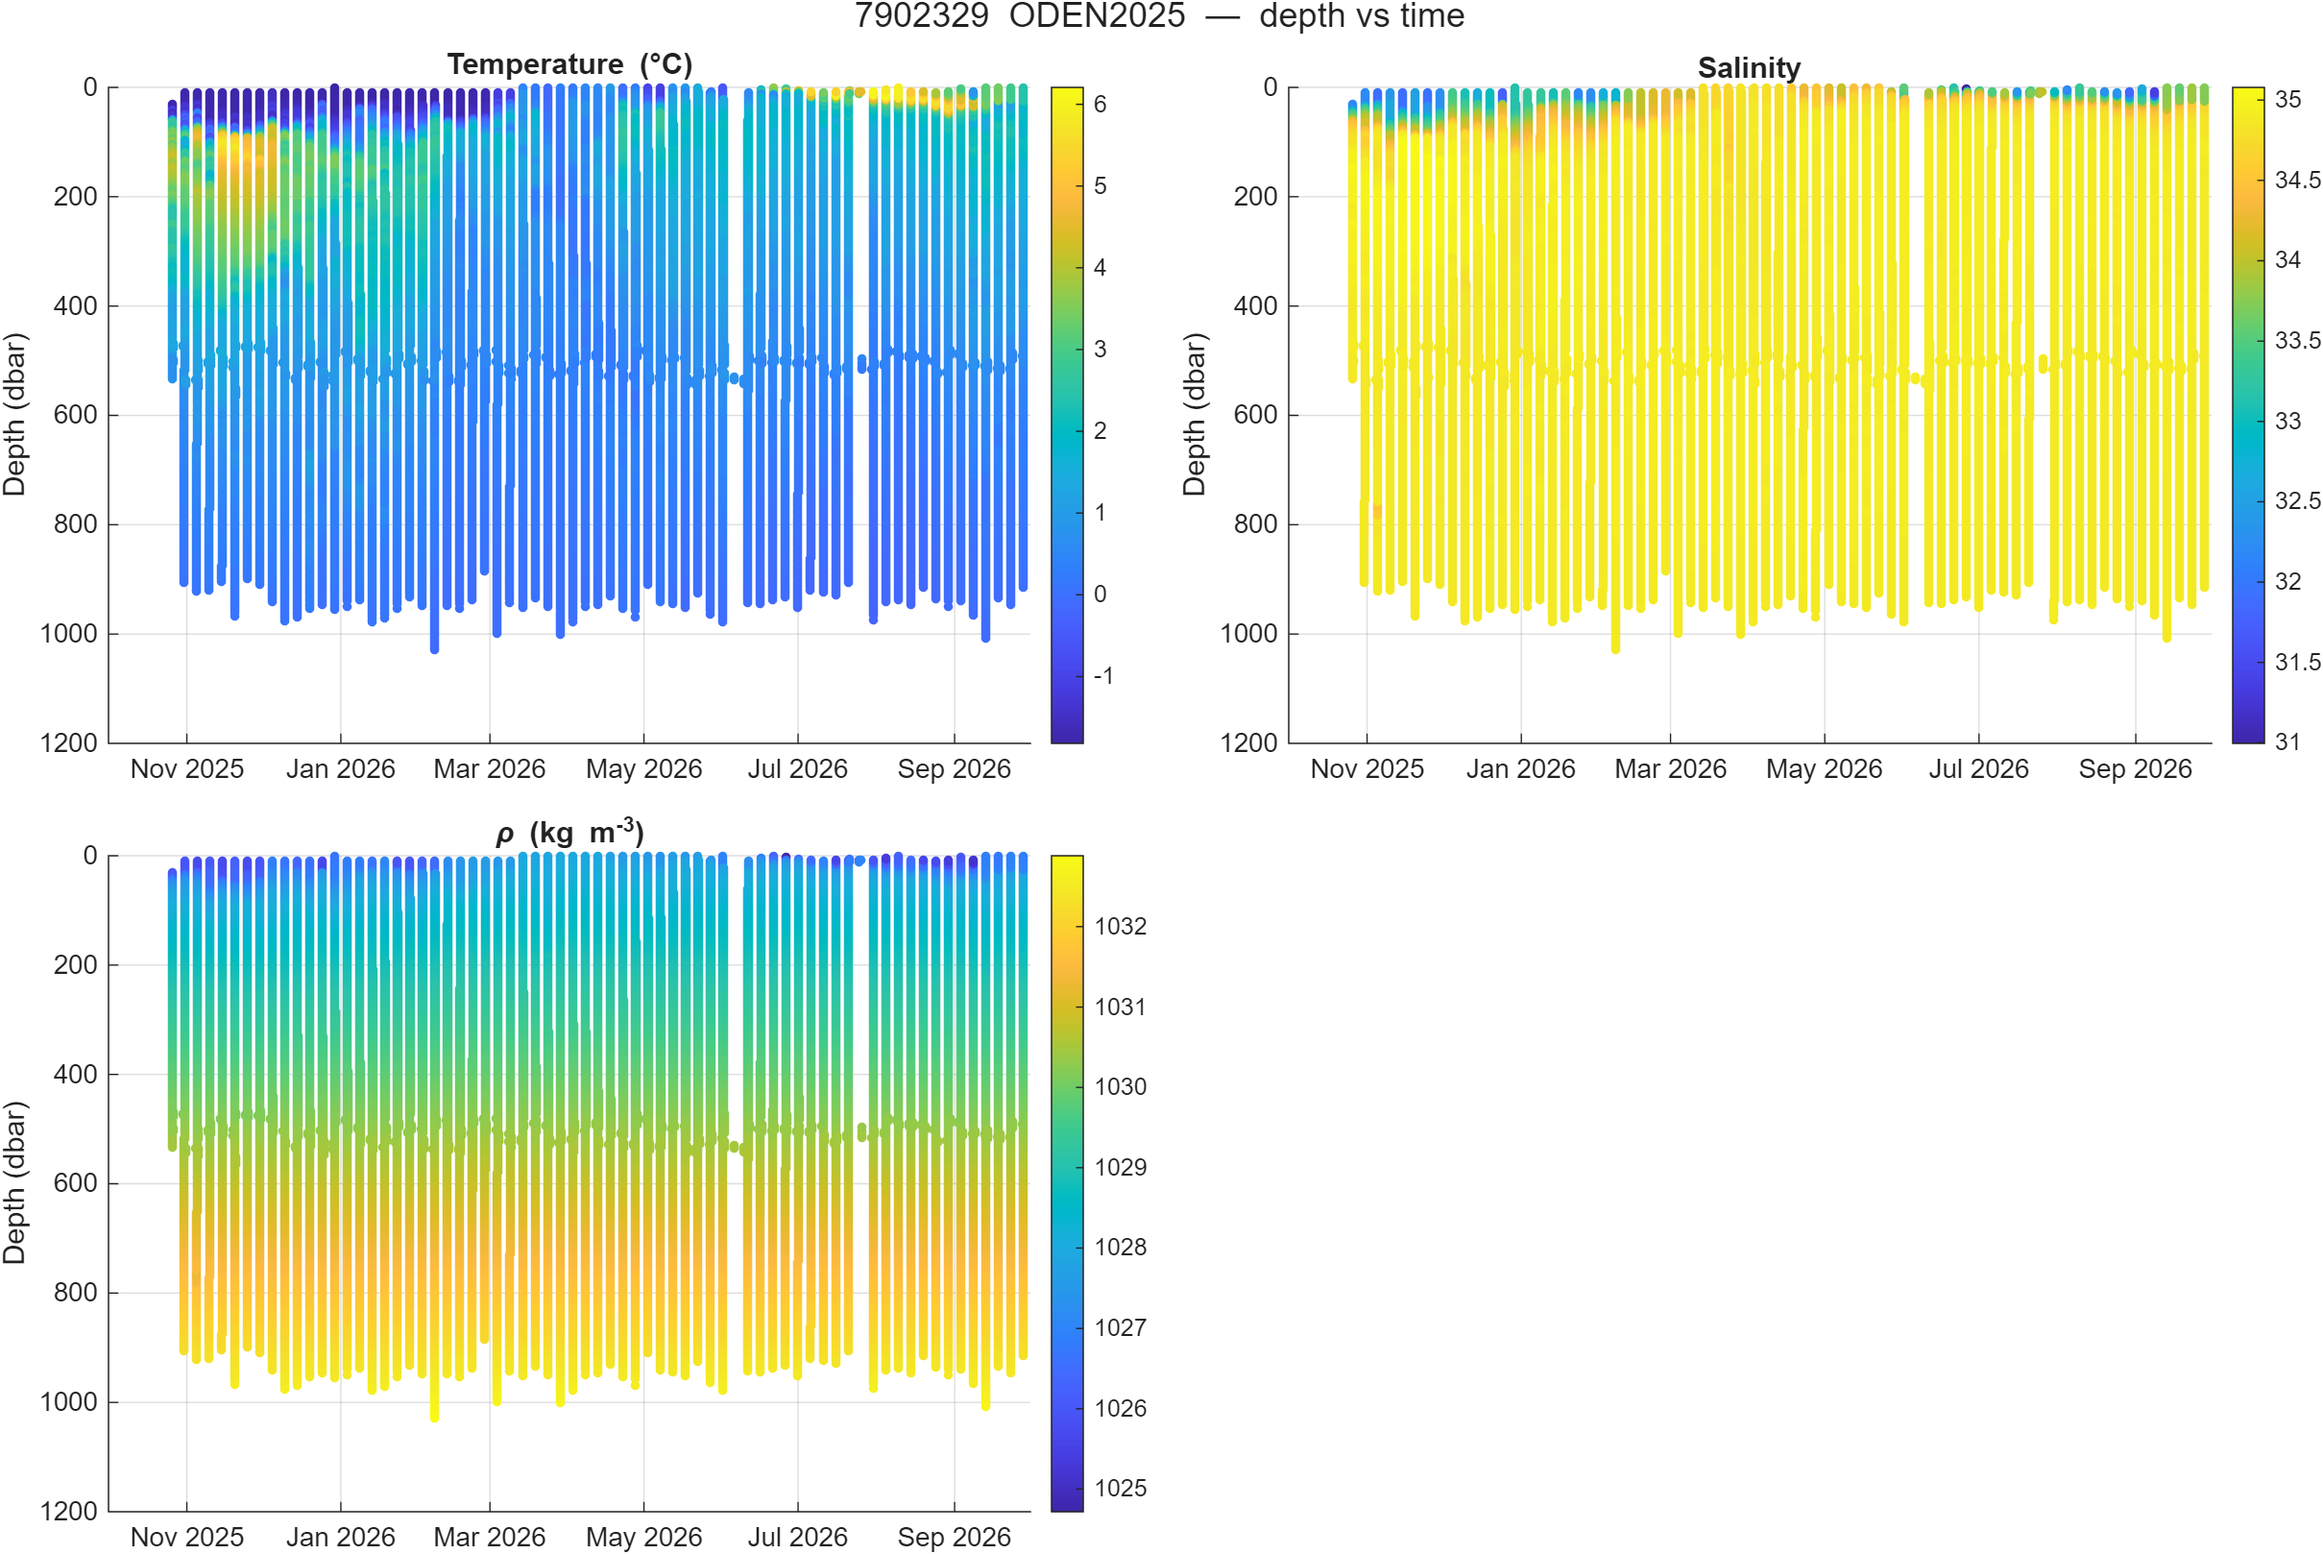
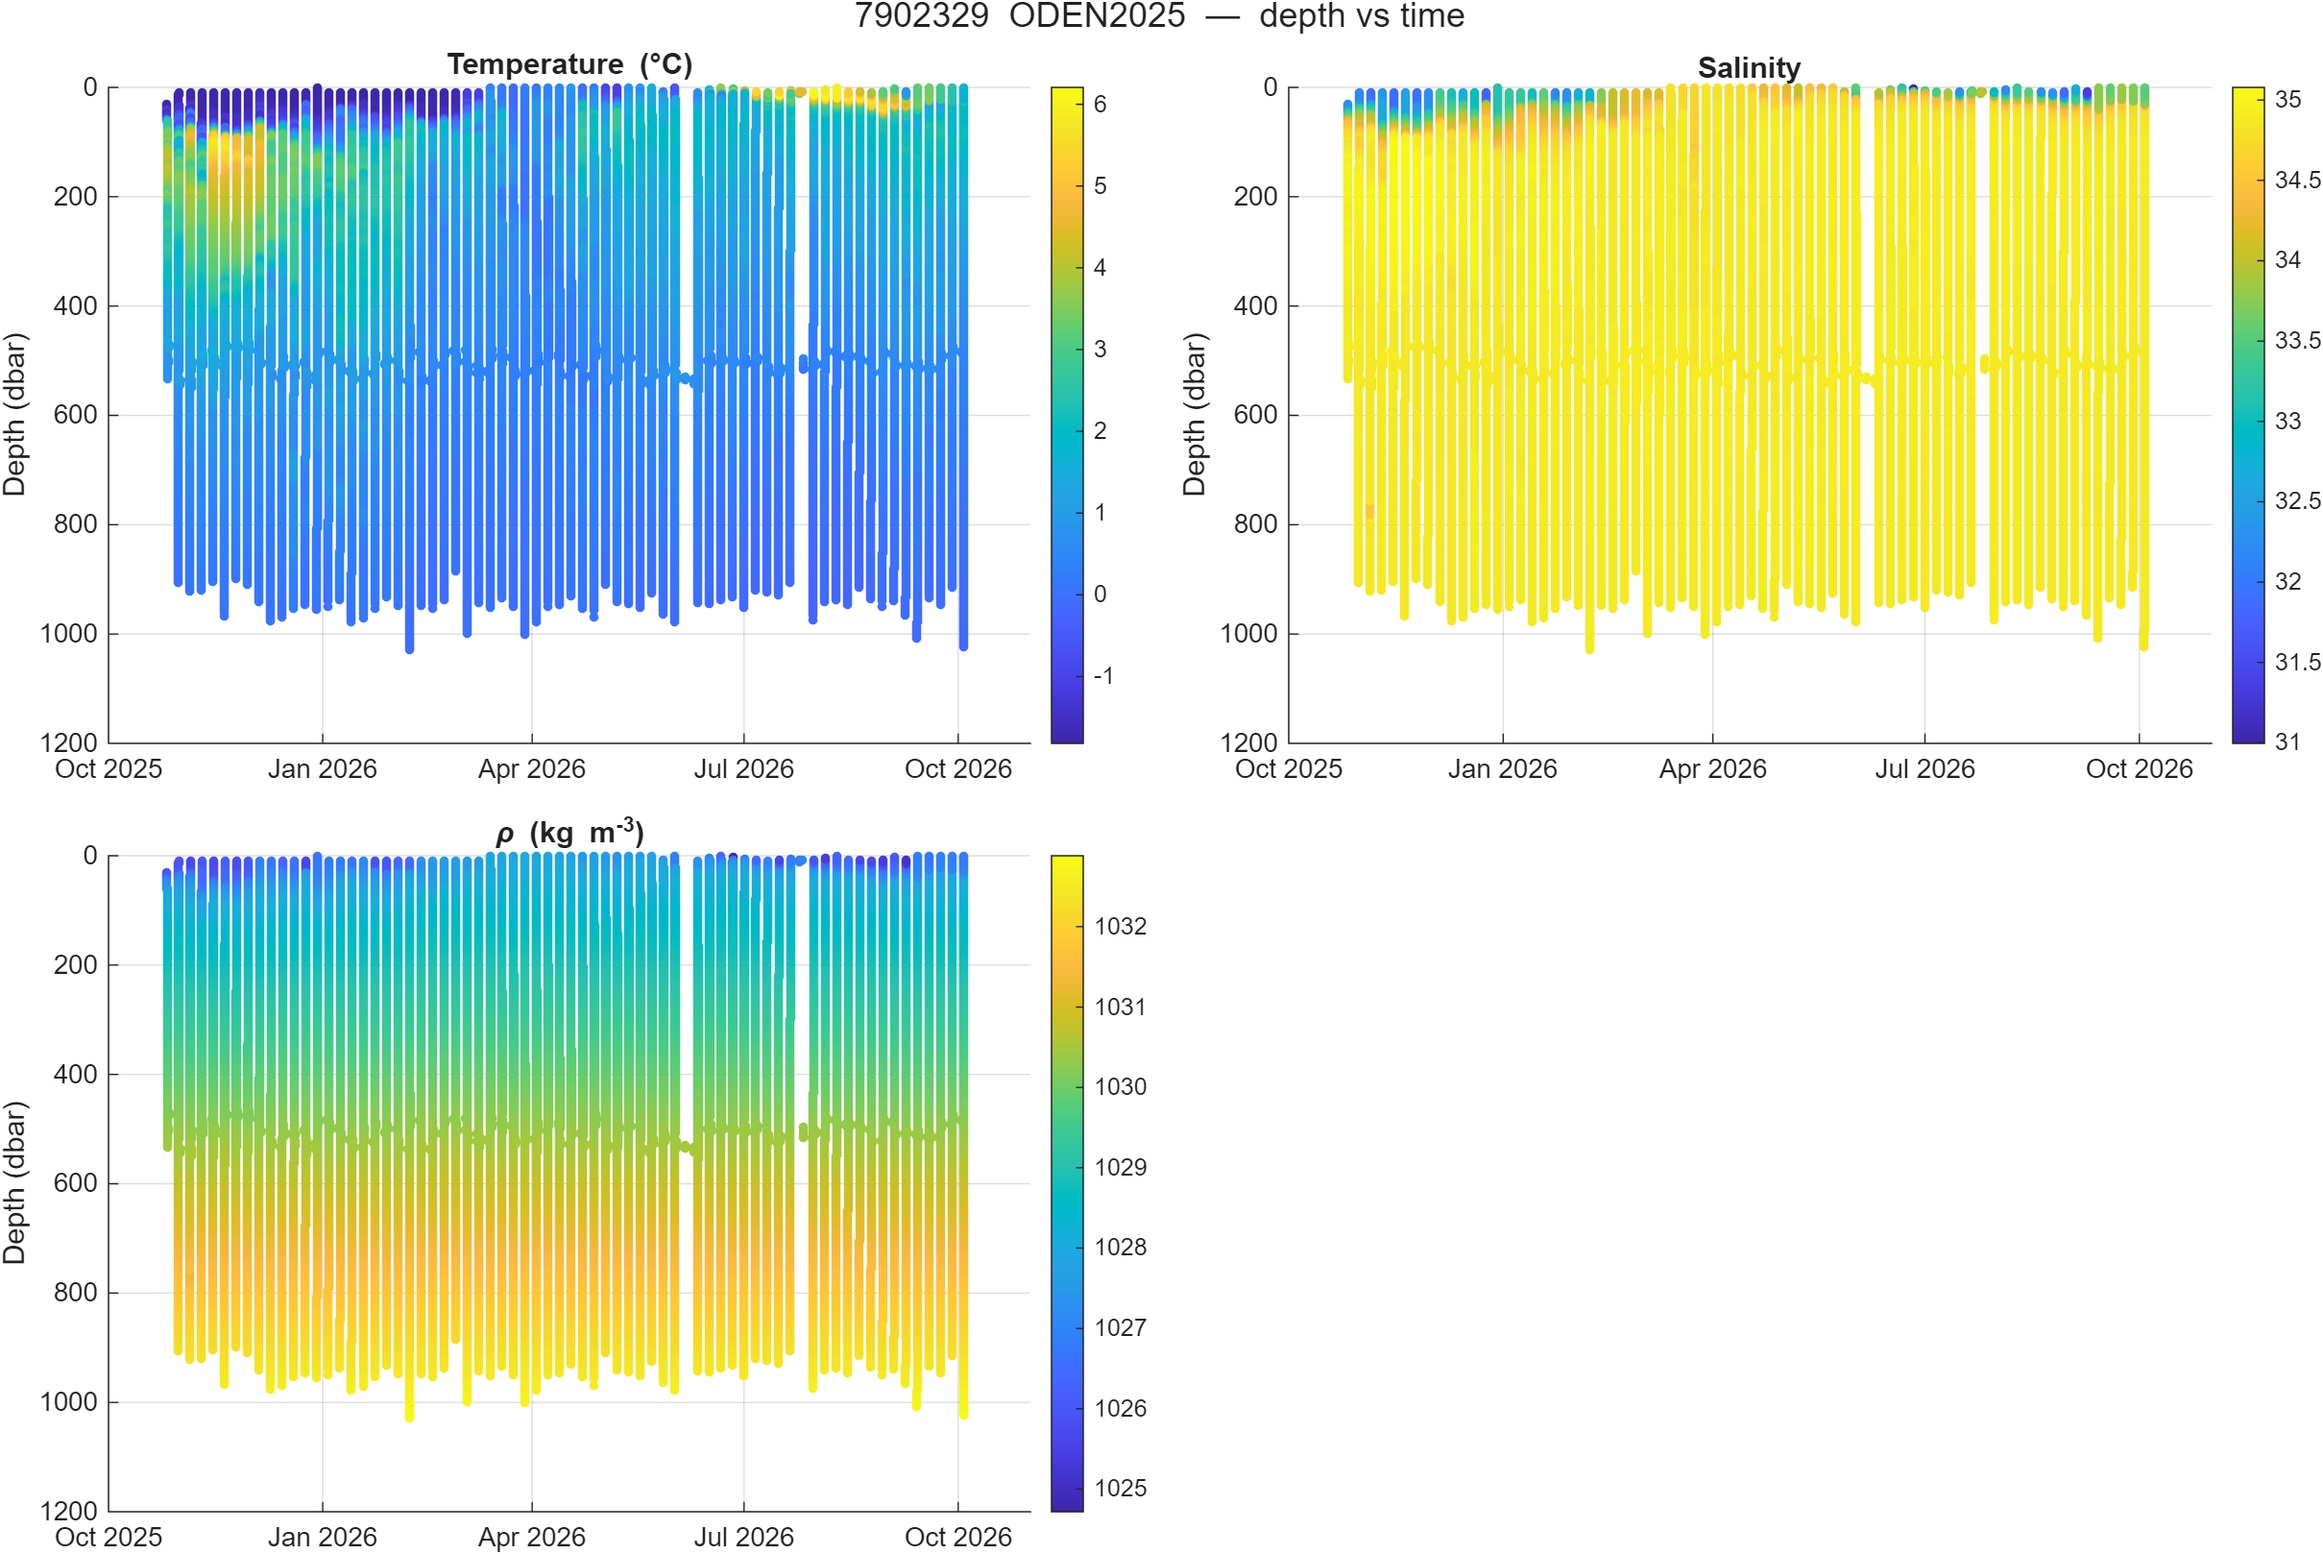
data update

diff --git a/data.js b/data.js
@@ -15,7 +15,7 @@
 //   graphs        [{label, src}, ...] figures for the fold-out
 //   notes         free text from floats_config.csv
 
-const floatUpdated = "2026-10-03 00:18";
+const floatUpdated = "2026-10-05 13:20";
 
 const floatData = [
   {
@@ -32,7 +32,7 @@ const floatData = [
     "location": "69.937° N, 18.486° W",
     "deployment_date": "2025-05-27",
     "last_surface": "2026-10-02 13:07",
-    "days_since": 0.5,
+    "days_since": 3,
     "next_surface": "2026-10-07 12:07",
     "next_surface_source": "nke cycle period",
     "n_profiles": 102,
@@ -476,15 +476,15 @@ const floatData = [
     "region": "greenland",
     "status": "active",
     "status_note": "",
-    "latitude": 67.5419,
-    "longitude": -20.0225,
-    "location": "67.542° N, 20.023° W",
+    "latitude": 67.5387,
+    "longitude": -20.0423,
+    "location": "67.539° N, 20.042° W",
     "deployment_date": "2025-02-10",
-    "last_surface": "2026-09-29 12:10",
-    "days_since": 3.5,
-    "next_surface": "2026-10-04 11:10",
+    "last_surface": "2026-10-04 10:44",
+    "days_since": 1.1,
+    "next_surface": "2026-10-09 09:44",
     "next_surface_source": "nke cycle period",
-    "n_profiles": 122,
+    "n_profiles": 123,
     "track": [
       [
         67.3361,
@@ -981,6 +981,10 @@ const floatData = [
       [
         67.5419,
         -20.0225
+      ],
+      [
+        67.5387,
+        -20.0423
       ]
     ],
     "trajectory": "assets/plots/6990657/6990657_map.png",
@@ -990,8 +994,8 @@ const floatData = [
         "src": "assets/plots/6990657/6990657_sections.png"
       },
       {
-        "label": "Profile 122  (2026-09-29)",
-        "src": "assets/plots/6990657/6990657_profile_122_2026-09-29.png"
+        "label": "Profile 123  (2026-10-04)",
+        "src": "assets/plots/6990657/6990657_profile_123_2026-10-04.png"
       }
     ],
     "notes": "RBR CTD"
@@ -1010,7 +1014,7 @@ const floatData = [
     "location": "78.691° N, 11.255° W",
     "deployment_date": "2025-08-04",
     "last_surface": "2026-09-01 04:35",
-    "days_since": 31.8,
+    "days_since": 34.4,
     "next_surface": "2026-09-06 03:35",
     "next_surface_source": "nke cycle period",
     "n_profiles": 81,
@@ -1374,15 +1378,15 @@ const floatData = [
     "region": "greenland",
     "status": "active",
     "status_note": "",
-    "latitude": 73.383,
-    "longitude": -13.7216,
-    "location": "73.383° N, 13.722° W",
+    "latitude": 73.1243,
+    "longitude": -14.6939,
+    "location": "73.124° N, 14.694° W",
     "deployment_date": "2025-10-30",
-    "last_surface": "2026-09-28 07:54",
-    "days_since": 4.7,
-    "next_surface": "2026-10-03 06:54",
+    "last_surface": "2026-10-03 06:57",
+    "days_since": 2.3,
+    "next_surface": "2026-10-08 05:57",
     "next_surface_source": "nke cycle period",
-    "n_profiles": 67,
+    "n_profiles": 68,
     "track": [
       [
         81.3966,
@@ -1663,6 +1667,10 @@ const floatData = [
       [
         73.383,
         -13.7216
+      ],
+      [
+        73.1243,
+        -14.6939
       ]
     ],
     "trajectory": "assets/plots/7902329/7902329_map.png",
@@ -1672,8 +1680,8 @@ const floatData = [
         "src": "assets/plots/7902329/7902329_sections.png"
       },
       {
-        "label": "Profile 077  (2026-09-28)",
-        "src": "assets/plots/7902329/7902329_profile_077_2026-09-28.png"
+        "label": "Profile 078  (2026-10-03)",
+        "src": "assets/plots/7902329/7902329_profile_078_2026-10-03.png"
       }
     ],
     "notes": "ODEN2025 (North Pole deployment); pre-deployment Denmark test dropped via deploy_date"
@@ -1687,15 +1695,15 @@ const floatData = [
     "region": "greenland",
     "status": "active",
     "status_note": "",
-    "latitude": 77.3322,
-    "longitude": -70.7248,
-    "location": "77.332° N, 70.725° W",
+    "latitude": 77.3306,
+    "longitude": -70.9227,
+    "location": "77.331° N, 70.923° W",
     "deployment_date": "2025-08-13",
-    "last_surface": "2026-09-29 01:19",
-    "days_since": 4,
-    "next_surface": "2026-10-04 00:19",
+    "last_surface": "2026-10-04 00:25",
+    "days_since": 1.5,
+    "next_surface": "2026-10-08 23:25",
     "next_surface_source": "nke cycle period",
-    "n_profiles": 63,
+    "n_profiles": 64,
     "track": [
       [
         77.3953,
@@ -1960,6 +1968,10 @@ const floatData = [
       [
         77.3322,
         -70.7248
+      ],
+      [
+        77.3306,
+        -70.9227
       ]
     ],
     "trajectory": "assets/plots/2903998/2903998_map.png",
@@ -1969,8 +1981,8 @@ const floatData = [
         "src": "assets/plots/2903998/2903998_sections.png"
       },
       {
-        "label": "Profile 084  (2026-09-28)",
-        "src": "assets/plots/2903998/2903998_profile_084_2026-09-28.png"
+        "label": "Profile 085  (2026-10-03)",
+        "src": "assets/plots/2903998/2903998_profile_085_2026-10-03.png"
       }
     ],
     "notes": ""
@@ -1989,7 +2001,7 @@ const floatData = [
     "location": "74.330° N, 20.311° W",
     "deployment_date": "2025-08-17",
     "last_surface": "2026-10-02 12:29",
-    "days_since": 0.5,
+    "days_since": 3,
     "next_surface": "2026-10-12 07:29",
     "next_surface_source": "nke cycle period",
     "n_profiles": 42,
@@ -2197,15 +2209,15 @@ const floatData = [
     "region": "denmark",
     "status": "active",
     "status_note": "",
-    "latitude": 56.3237,
-    "longitude": 19.4083,
-    "location": "56.324° N, 19.408° E",
+    "latitude": 56.3227,
+    "longitude": 19.4131,
+    "location": "56.323° N, 19.413° E",
     "deployment_date": "2024-11-25",
-    "last_surface": "2026-09-30 07:53",
-    "days_since": 2.7,
-    "next_surface": "2026-10-05 02:53",
+    "last_surface": "2026-10-05 02:55",
+    "days_since": 0.4,
+    "next_surface": "2026-10-09 21:55",
     "next_surface_source": "nke cycle period",
-    "n_profiles": 145,
+    "n_profiles": 146,
     "track": [
       [
         55.4992,
@@ -2790,6 +2802,10 @@ const floatData = [
       [
         56.3237,
         19.4083
+      ],
+      [
+        56.3227,
+        19.4131
       ]
     ],
     "trajectory": "assets/plots/3902607/3902607_map.png",
@@ -2799,8 +2815,8 @@ const floatData = [
         "src": "assets/plots/3902607/3902607_sections.png"
       },
       {
-        "label": "Profile 145  (2026-09-30)",
-        "src": "assets/plots/3902607/3902607_profile_145_2026-09-30.png"
+        "label": "Profile 146  (2026-10-05)",
+        "src": "assets/plots/3902607/3902607_profile_146_2026-10-05.png"
       }
     ],
     "notes": "RBR CTD; pre-deployment July-2024 fix dropped via deploy_date"
@@ -2819,7 +2835,7 @@ const floatData = [
     "location": "55.201° N, 9.752° E",
     "deployment_date": "2026-06-23",
     "last_surface": "2026-09-25 17:38",
-    "days_since": 7.3,
+    "days_since": 9.8,
     "next_surface": "2026-09-30 16:29",
     "next_surface_source": "median cycle interval",
     "n_profiles": 20,
@@ -2932,7 +2948,7 @@ const floatData = [
     "location": "54.986° N, 10.228° E",
     "deployment_date": "2026-06-24",
     "last_surface": "2026-09-28 01:36",
-    "days_since": 4.9,
+    "days_since": 7.5,
     "next_surface": "2026-10-03 01:31",
     "next_surface_source": "median cycle interval",
     "n_profiles": 20,
@@ -3039,13 +3055,13 @@ const floatData = [
     "sensors": "bgc",
     "region": "denmark",
     "status": "inactive",
-    "status_note": "no transmission for 454 days — no next surfacing predicted",
+    "status_note": "no transmission for 456 days — no next surfacing predicted",
     "latitude": 55.1358,
     "longitude": 14.5121,
     "location": "55.136° N, 14.512° E",
     "deployment_date": "2023-11-07",
     "last_surface": "2025-07-06 10:58",
-    "days_since": 453.6,
+    "days_since": 456.1,
     "next_surface": "",
     "next_surface_source": "",
     "n_profiles": 190,
